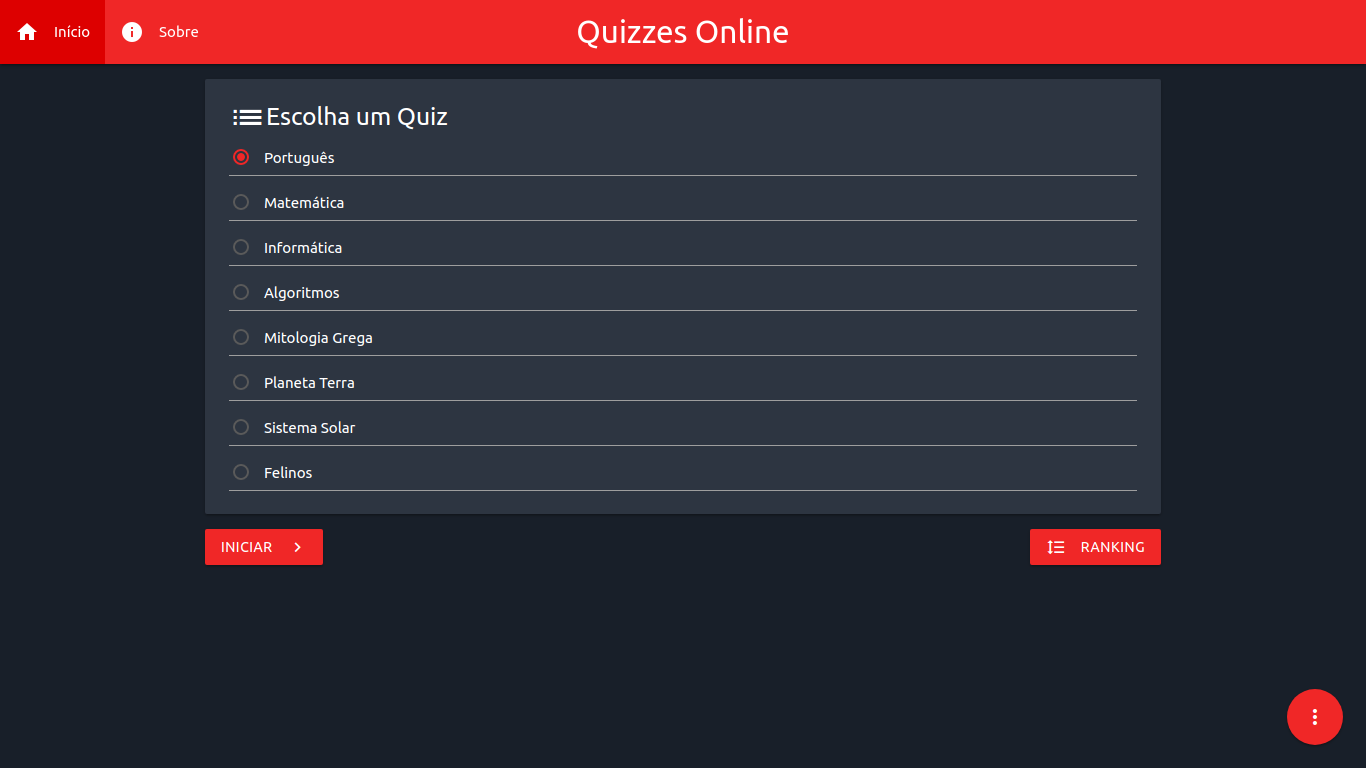
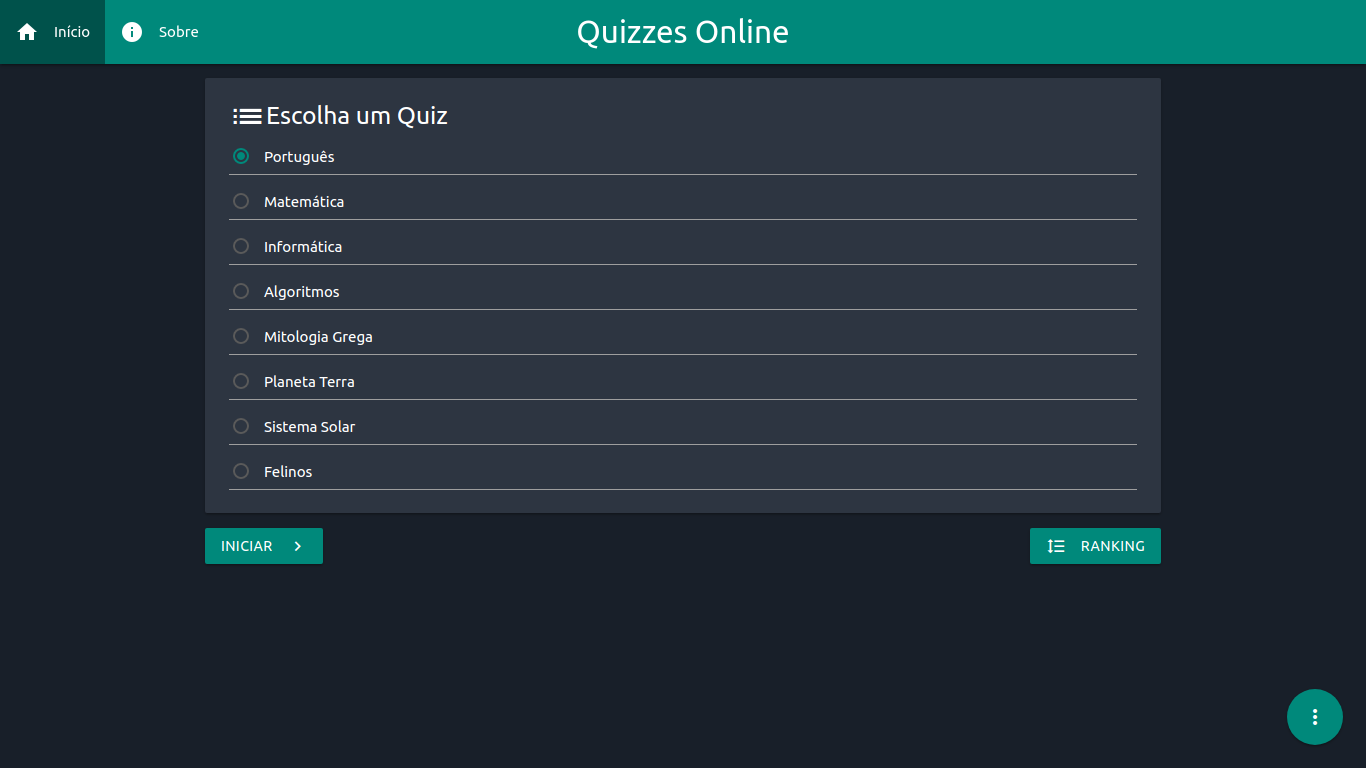
dark theme changed; improvements

diff --git a/src/css/index.css b/src/css/index.css
@@ -13,8 +13,6 @@ body {
 body[data-theme=light] {
 	--bgcolor: #e9e9e9;
 	--bgcolor2: white;
-	--bgcolor3: #008174;
-	--bgcoloractive: #00524b;
 	--bgcolorscroll: #ededed;
 	--colorswitcher: #9e9e9e;
 	--colorswitcherball: #f1f1f1;
@@ -27,35 +25,14 @@ body[data-theme=light] {
 body[data-theme=dark] {
 	--bgcolor: #181f29;
 	--bgcolor2: #2d3541;
-	--bgcolor3: #f02727;
-	--bgcoloractive: #dd0000;
 	--bgcolorscroll: #212731;
-	--colorswitcher: #ff2929;
-	--colorswitcherball: #ff0b0b;
+	--colorswitcher: #00796b;
+	--colorswitcherball: #00524b;
 	--colortext: white;
 	--colorradiodisabled: #5a5a5a;
 	--colorradiocheckeddisabled: #a0a0a0;
 	--colorcurrentquestion: #2d3541
 }
-
-/* html,
-body,
-.card-panel,
-.modal,
-.modal-content,
-.modal-footer,
-nav,
-.lever,
-.lever:after,
-.btn {
-	transition: background-color .2s !important;
-	-webkit-transition: background-color .2s !important
-}
-
-.modal,
-.card-panel {
-	transition: color .2s !important
-} */
 
 .bgcolor3 {
 	background-color: var(--colorcurrentquestion) !important
@@ -75,7 +52,7 @@ a.btn-floating:focus,
 .btn-floating,
 nav,
 .tap-target {
-	background-color: var(--bgcolor3)
+	background-color: #00897b
 }
 
 a {
@@ -85,7 +62,7 @@ a {
 .btn:hover,
 .btn-floating:hover,
 .bgcoloractive {
-	background-color: var(--bgcoloractive)
+	background-color: #00524b
 }
 
 .btn.green:hover {
@@ -97,7 +74,7 @@ a {
 }
 
 a.btn:hover {
-	background-color: var(--bgcoloractive) !important
+	background-color: #00524b !important
 }
 
 .card-panel,
@@ -116,12 +93,12 @@ a.btn:hover {
 }
 
 .input-field input[type=text]:focus+label {
-	color: var(--bgcolor3) !important
+	color: #00897b !important
 }
 
 .input-field input[type=text]:focus {
-	border-bottom: 1px solid var(--bgcolor3) !important;
-	box-shadow: 0 1px 0 0 var(--bgcolor3) !important
+	border-bottom: 1px solid #00897b !important;
+	box-shadow: 0 1px 0 0 #00897b !important
 }
 
 .input-field input[type=text] {
@@ -143,12 +120,12 @@ a.btn:hover {
 [type=radio]:checked+span:after,
 [type=radio].with-gap:checked+span:before,
 [type=radio].with-gap:checked+span:after {
-	border: 2px solid var(--bgcolor3)
+	border: 2px solid #00897b
 }
 
 [type=radio]:checked+span:after,
 [type=radio].with-gap:checked+span:after {
-	background-color: var(--bgcolor3)
+	background-color: #00897b
 }
 
 .tap-target-wave:before {
@@ -228,11 +205,11 @@ i[data-disabled] {
 
 #tabs::-webkit-scrollbar-thumb {
 	border-radius: 1.5px;
-	background-color: var(--bgcolor3)
+	background-color: #00897b
 }
 
 #tabs::-webkit-scrollbar-thumb:hover {
-	background-color: var(--bgcoloractive)
+	background-color: #00524b
 }
 
 #tabs::-webkit-scrollbar-track {
@@ -240,11 +217,11 @@ i[data-disabled] {
 }
 
 .tabs .tab a.active {
-	color: var(--bgcoloractive) !important
+	color: var(--colortext) !important
 }
 
 .tabs .tab a {
-	color: var(--bgcolor3);
+	color: #00897b;
 	-webkit-user-select: none
 }
 
@@ -253,11 +230,10 @@ i[data-disabled] {
 }
 
 .tabs .tab a:hover {
-	color: var(--bgcoloractive)
+	color: var(--colortext)
 }
 
 .tabs .tab a:focus.active {
-	color: var(--bgcolor3);
 	background-color: transparent
 }
 
@@ -266,7 +242,7 @@ i[data-disabled] {
 }
 
 .tabs .indicator {
-	background-color: var(--bgcolor3)
+	background-color: #00897b
 }
 
 .c-df {
@@ -294,7 +270,7 @@ i[data-disabled] {
 }
 
 .spinner-layer {
-	border-color: var(--bgcoloractive)
+	border-color: #00524b
 }
 
 @media (max-width: 447px) {
@@ -350,11 +326,11 @@ i[data-disabled] {
 
 	::-webkit-scrollbar-thumb {
 		border-radius: 1.5px;
-		background-color: var(--bgcolor3)
+		background-color: #00897b
 	}
 
 	::-webkit-scrollbar-thumb:hover {
-		background-color: var(--bgcoloractive)
+		background-color: #00524b
 	}
 
 	::-webkit-scrollbar-track {

diff --git a/index.html b/index.html
@@ -8,7 +8,7 @@
 	<link rel="stylesheet" href="src/css/materialize.min.css">
 	<link rel="stylesheet" href="src/css/material-icons.css">
 	<link rel="stylesheet" href="src/css/index.css">
-	<link rel="icon" href="images/logo_light.png">
+	<link rel="icon" href="images/logo64x64.png">
 	<link rel="manifest" href="manifest.json">
 
 	<meta name="title" content="Quizzes Online">
@@ -19,8 +19,8 @@
 	<meta name="apple-mobile-web-app-capable" content="yes">
 	<meta name="application-name" content="Quizzes Online">
 	<meta name="apple-mobile-web-app-title" content="Quizzes Online">
-	<meta name="theme-color" content="#008174">
-	<meta name="msapplication-navbutton-color" content="#008174">
+	<meta name="theme-color" content="#00897b">
+	<meta name="msapplication-navbutton-color" content="#00897b">
 	<meta name="apple-mobile-web-app-status-bar-style" content="black-translucent">
 	<meta name="msapplication-starturl" content="https://quizzesonline.now.sh">
 	<!-- Open Graph / Facebook -->
@@ -55,7 +55,7 @@
 
 	<div id="preloader">
 		<div class="preloader-wrapper big active">
-			<div class="spinner-layer spinner-blue-only">
+			<div class="spinner-layer">
 				<div class="circle-clipper left">
 					<div class="circle"></div>
 				</div>
@@ -90,7 +90,7 @@
 	</ul>
 
 	<section id="container" class="container hide">
-		<section id="selectQuiz" class="card-panel" style="margin-top:15px">
+		<section id="selectQuiz" class="card-panel" style="margin-top:14px">
 			<h5 style="margin:-15px 0 0 0" class="corTexto"><i class="material-icons" style="top:11px;font-size:37px">list</i>Escolha um Quiz</h5>
 
 			<div id="options"></div>
@@ -113,7 +113,7 @@
 			</section>
 		</section>
 
-		<section id="quiz" class="card-panel hoverable hide"></section>
+		<section id="quiz" class="card-panel hoverable hide" style="margin-top:14px"></section>
 
 		<button id="start" title="Iniciar Quiz" class="btn waves-effect waves-light" onclick="start()">Iniciar<i class="material-icons right">chevron_right</i></button>
 		<button id="rank" title="Ranking Local" class="btn waves-effect modal-trigger waves-light right" data-target="modal4"><i class="material-icons left">format_line_spacing</i>Ranking</button>

diff --git a/sobre/src/index.css b/sobre/src/index.css
@@ -19,11 +19,9 @@ main {
 body[data-theme=light] {
 	--bgcolor: #e9e9e9;
 	--bgcolor2: white;
-	--bgcolor3: #008174;
-	--bgcoloractive: #00524b;
 	--bgcolorscroll: #ededed;
 	--colortext: black;
-	--footerbg: #009688;
+	--footerbg: #00897b;
 	--footercopyright: #007267;
 	--footerlink: white
 }
@@ -31,8 +29,6 @@ body[data-theme=light] {
 body[data-theme=dark] {
 	--bgcolor: #181f29;
 	--bgcolor2: #2d3541;
-	--bgcolor3: #f02727;
-	--bgcoloractive: #dd0000;
 	--bgcolorscroll: #212731;
 	--colortext: white;
 	--footerbg: #2a3342;
@@ -66,16 +62,16 @@ body[data-theme=dark] {
 .btn,
 .btn:focus,
 nav {
-	background-color: var(--bgcolor3)
+	background-color: #00897b
 }
 
 .btn:hover,
 .bgcoloractive {
-	background-color: var(--bgcoloractive)
+	background-color: #00524b
 }
 
 a.btn:hover {
-	background-color: var(--bgcoloractive) !important
+	background-color: #00524b !important
 }
 
 .card-image,
@@ -111,11 +107,11 @@ footer {
 .card-action a,
 p a {
 	font-weight: 600;
-	color: var(--bgcolor3) !important
+	color: #009688 !important
 }
 
 .spinner-layer {
-	border-color: var(--bgcoloractive)
+	border-color: #00524b
 }
 
 @media (min-width: 735px) {
@@ -137,11 +133,11 @@ p a {
 	}
 
 	::-webkit-scrollbar-thumb {
-		background-color: var(--bgcolor3)
+		background-color: #00897b
 	}
 
 	::-webkit-scrollbar-thumb:hover {
-		background-color: var(--bgcoloractive)
+		background-color: #00524b
 	}
 
 	::-webkit-scrollbar-track {

diff --git a/sobre/index.html b/sobre/index.html
@@ -8,7 +8,7 @@
 	<link rel="stylesheet" href="../src/css/materialize.min.css">
 	<link rel="stylesheet" href="../src/css/material-icons.css">
 	<link rel="stylesheet" href="src/index.css">
-	<link rel="icon" href="../images/logo_light.png">
+	<link rel="icon" href="../images/logo64x64.png">
 	<link rel="manifest" href="../manifest.json">
 
 	<meta name="title" content="Quizzes Online">
@@ -19,8 +19,8 @@
 	<meta name="apple-mobile-web-app-capable" content="yes">
 	<meta name="application-name" content="Quizzes Online">
 	<meta name="apple-mobile-web-app-title" content="Quizzes Online">
-	<meta name="theme-color" content="#008174">
-	<meta name="msapplication-navbutton-color" content="#008174">
+	<meta name="theme-color" content="#00897b">
+	<meta name="msapplication-navbutton-color" content="#00897b">
 	<meta name="apple-mobile-web-app-status-bar-style" content="black-translucent">
 	<meta name="msapplication-starturl" content="https://quizzesonline.now.sh">
 	<!-- Open Graph / Facebook -->
@@ -90,7 +90,7 @@
 	</ul>
 
 	<main id="container" class="container hide">
-		<section class="card-panel" style="margin-top:15px">
+		<section class="card-panel" style="margin-top:14px">
 			<h4 style="margin:0 0 10px 0">Agradecimentos</h4>
 			<div class="divider"></div>
 

diff --git a/src/js/index.js b/src/js/index.js
@@ -20,9 +20,6 @@ const btnNext = document.querySelector('#next'),
 	modal5 = document.querySelector('#modal5'),
 	switcherTheme = document.querySelector('#darktheme'),
 	quizTitle = document.querySelector('#quizTitle'),
-	metaThemeColor = document.querySelector('meta[name=theme-color]'),
-	metaMSThemeColor = document.querySelector('meta[name=msapplication-navbutton-color]'),
-	icon = document.querySelector('link[rel=icon]'),
 	options = document.querySelector('#options'),
 	tabs = document.querySelector('#tabs'),
 	tabItems = document.querySelector('#tabItems')
@@ -53,17 +50,11 @@ types = document.querySelectorAll('[name=selectQuiz]')
 
 const darkTheme = () => {
 	localStorage.setItem('darktheme', 1)
-	metaThemeColor.setAttribute('content', '#f02727')
-	metaMSThemeColor.setAttribute('content', '#f02727')
-	icon.setAttribute('href', 'images/logo_dark.png')
 	document.body.setAttribute('data-theme', 'dark')
 }
 
 const lightTheme = () => {
 	localStorage.removeItem('darktheme')
-	metaThemeColor.setAttribute('content', '#009688')
-	metaMSThemeColor.setAttribute('content', '#009688')
-	icon.setAttribute('href', 'images/logo_light.png')
 	document.body.setAttribute('data-theme', 'light')
 }
 

diff --git a/sobre/src/index.js b/sobre/src/index.js
@@ -1,19 +1,9 @@
 "use strict";
 
-const metaThemeColor = document.querySelector('meta[name=theme-color]'),
-	metaMSThemeColor = document.querySelector('meta[name=msapplication-navbutton-color]'),
-	icon = document.querySelector('link[rel=icon]'),
-	card = document.querySelector('#card')
-
-const darkTheme = () => {
-	metaThemeColor.setAttribute('content', '#f02727')
-	metaMSThemeColor.setAttribute('content', '#f02727')
-	icon.setAttribute('href', '../images/logo_dark.png')
-	document.body.setAttribute('data-theme', 'dark')
-}
+const card = document.querySelector('#card')
 
 if (localStorage.getItem('darktheme')) {
-	darkTheme()
+	document.body.setAttribute('data-theme', 'dark')
 }
 
 const tabletMedia = x => {
